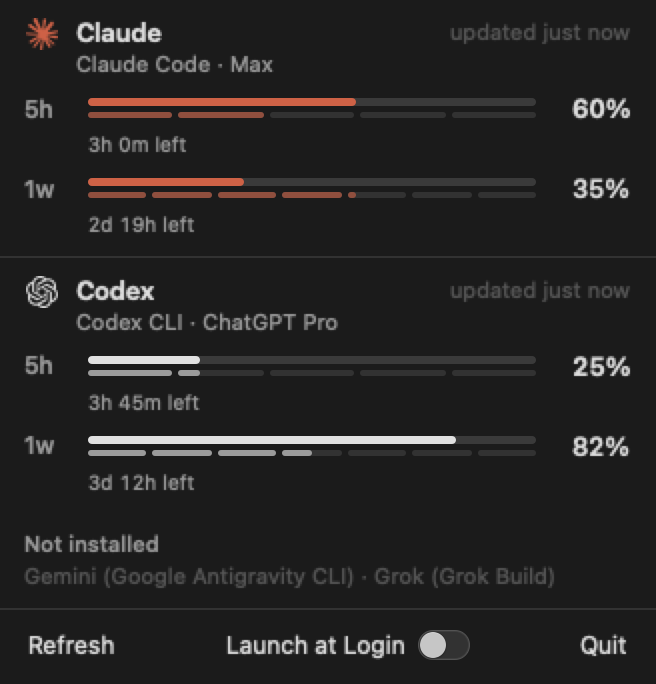
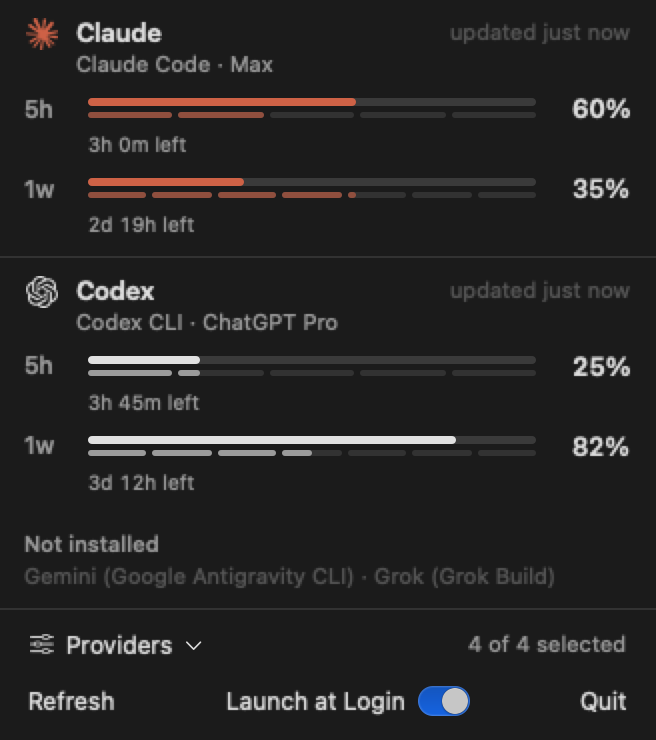
Add persistent provider visibility controls

diff --git a/Sources/LimitBar/Views.swift b/Sources/LimitBar/Views.swift
@@ -39,6 +39,10 @@ struct TrayView: View {
 
     var body: some View {
         HStack(spacing: 8) {
+            if store.installed.isEmpty {
+                Image(systemName: "gauge").font(.system(size: 13))
+                Text("LimitBar").font(.system(size: 12))
+            }
             ForEach(store.installed, id: \.self) { v in
                 let s = store.snaps[v]
                 HStack(spacing: 3) {
@@ -77,7 +81,9 @@ struct TrayView: View {
 struct PanelView: View {
     @ObservedObject var store: Store
     var onQuit: () -> Void
+    var onResize: () -> Void = {}
     @State private var login = SMAppService.mainApp.status == .enabled
+    @State private var showProviders = false
 
     var body: some View {
         TimelineView(.periodic(from: .now, by: 30)) { context in
@@ -86,7 +92,15 @@ struct PanelView: View {
                     if i > 0 { Hairline() }
                     VendorSection(vendor: v, snap: store.snaps[v], busy: store.busy.contains(v), now: context.date)
                 }
-                let missing = Vendor.allCases.filter { !store.installed.contains($0) }
+                if store.enabled.isEmpty {
+                    VStack(alignment: .leading, spacing: 3) {
+                        Text("No providers selected").font(.system(size: 12, weight: .medium))
+                        Text("Choose providers below to show limits.").font(.system(size: 11)).foregroundStyle(.secondary)
+                    }
+                    .frame(maxWidth: .infinity, alignment: .leading)
+                    .padding(12)
+                }
+                let missing = store.enabled.filter { !store.installed.contains($0) }
                 if !missing.isEmpty {
                     if !store.installed.isEmpty { Hairline() }
                     MissingRow(vendors: missing)
@@ -96,24 +110,59 @@ struct PanelView: View {
             }
             .frame(width: 328)
         }
+        .onChange(of: showProviders) { _, _ in onResize() }
     }
 
     private var footer: some View {
-        HStack(spacing: 6) {
-            FooterButton(title: store.busy.isEmpty ? "Refresh" : "Refreshing…") { store.refresh(force: true) }
-                .disabled(!store.busy.isEmpty)
-            Spacer()
-            HStack(spacing: 6) {
-                Text("Launch at Login").font(.system(size: 12))
-                Toggle("", isOn: Binding(get: { login }, set: { on in
-                    do {
-                        if on { try SMAppService.mainApp.register() } else { try SMAppService.mainApp.unregister() }
-                    } catch {}
-                    login = SMAppService.mainApp.status == .enabled
-                })).toggleStyle(.switch).controlSize(.mini).labelsHidden()
+        VStack(spacing: 5) {
+            HStack {
+                Button { showProviders.toggle() } label: {
+                    HStack(spacing: 5) {
+                        Image(systemName: "slider.horizontal.3")
+                        Text("Providers")
+                        Image(systemName: showProviders ? "chevron.up" : "chevron.down").font(.system(size: 9))
+                    }
+                    .font(.system(size: 12))
+                    .padding(.vertical, 4)
+                }
+                .buttonStyle(.plain)
+                .accessibilityLabel("Choose providers")
+                .accessibilityValue(showProviders ? "Expanded" : "Collapsed")
+                Spacer()
+                Text("\(store.enabled.count) of \(Vendor.allCases.count) selected")
+                    .font(.system(size: 11)).foregroundStyle(.secondary)
             }
-            Spacer()
-            FooterButton(title: "Quit", action: onQuit)
+            .padding(.horizontal, 6)
+            if showProviders {
+                LazyVGrid(columns: [GridItem(.flexible(), alignment: .leading), GridItem(.flexible(), alignment: .leading)], alignment: .leading, spacing: 8) {
+                    ForEach(Vendor.allCases, id: \.self) { vendor in
+                        Toggle(vendor.name, isOn: Binding(
+                            get: { !store.hiddenVendors.contains(vendor) },
+                            set: { store.setEnabled(vendor, $0) }
+                        ))
+                        .toggleStyle(.checkbox)
+                        .font(.system(size: 12))
+                    }
+                }
+                .padding(.horizontal, 6)
+                .padding(.bottom, 7)
+            }
+            HStack(spacing: 6) {
+                FooterButton(title: store.visibleBusy ? "Refreshing…" : "Refresh") { store.refresh(force: true) }
+                    .disabled(store.visibleBusy || store.enabled.isEmpty)
+                Spacer()
+                HStack(spacing: 6) {
+                    Text("Launch at Login").font(.system(size: 12))
+                    Toggle("", isOn: Binding(get: { login }, set: { on in
+                        do {
+                            if on { try SMAppService.mainApp.register() } else { try SMAppService.mainApp.unregister() }
+                        } catch {}
+                        login = SMAppService.mainApp.status == .enabled
+                    })).toggleStyle(.switch).controlSize(.mini).labelsHidden()
+                }
+                Spacer()
+                FooterButton(title: "Quit", action: onQuit)
+            }
         }
         .padding(EdgeInsets(top: 6, leading: 8, bottom: 8, trailing: 8))
     }

diff --git a/tests/LimitBarTests/ProviderSettingsTests.swift b/tests/LimitBarTests/ProviderSettingsTests.swift
@@ -1,0 +1,81 @@
+import XCTest
+@testable import LimitBar
+
+final class ProviderSettingsTests: XCTestCase {
+    private var suite: String!
+    private var preferences: UserDefaults!
+
+    override func setUp() {
+        super.setUp()
+        suite = "LimitBarTests.\(UUID().uuidString)"
+        preferences = UserDefaults(suiteName: suite)!
+    }
+
+    override func tearDown() {
+        preferences.removePersistentDomain(forName: suite)
+        preferences = nil
+        super.tearDown()
+    }
+
+    private func store() -> Store {
+        Store(previewSnapshots: [
+            .claude: Snapshot(vendor: .claude), .codex: Snapshot(vendor: .codex),
+            .grok: .status(.grok, .signedOut), .gemini: .status(.gemini, .missing)
+        ], preferences: preferences)
+    }
+
+    func testAllProvidersEnabledByDefault() {
+        let store = store()
+        XCTAssertEqual(store.enabled, Vendor.allCases)
+        XCTAssertEqual(store.installed, [.claude, .codex, .grok])
+    }
+
+    func testHiddenProvidersDisappearAndStayHiddenAfterRestart() {
+        let original = store()
+        original.setEnabled(.grok, false)
+        original.setEnabled(.gemini, false)
+        XCTAssertEqual(original.enabled, [.claude, .codex])
+        XCTAssertEqual(original.installed, [.claude, .codex])
+        let restored = store()
+        XCTAssertEqual(restored.enabled, [.claude, .codex])
+        XCTAssertEqual(restored.hiddenVendors, [.gemini, .grok])
+    }
+
+    func testHiddenProvidersCannotBePolledEvenOnForcedRefresh() {
+        let store = store()
+        store.setEnabled(.grok, false)
+        XCTAssertFalse(store.shouldPoll(.grok, force: true, olderThan: nil))
+        XCTAssertFalse(store.shouldPoll(.grok, force: false, olderThan: 0))
+        store.setEnabled(.grok, true)
+        XCTAssertTrue(store.shouldPoll(.grok, force: true, olderThan: nil))
+        XCTAssertEqual(store.installed, [.claude, .codex, .grok])
+    }
+
+    func testAllProvidersCanBeHiddenAndOneRestored() {
+        let store = store()
+        for vendor in Vendor.allCases { store.setEnabled(vendor, false) }
+        XCTAssertTrue(store.enabled.isEmpty)
+        XCTAssertTrue(store.installed.isEmpty)
+        XCTAssertFalse(store.visibleBusy)
+        let restored = self.store()
+        XCTAssertTrue(restored.enabled.isEmpty)
+        restored.setEnabled(.codex, true)
+        XCTAssertEqual(restored.enabled, [.codex])
+        XCTAssertEqual(restored.installed, [.codex])
+    }
+
+    func testUnknownStoredProvidersAreIgnored() {
+        preferences.set(["grok", "future-provider"], forKey: "hiddenProviders")
+        let store = store()
+        XCTAssertEqual(store.hiddenVendors, [.grok])
+        XCTAssertEqual(store.enabled, [.claude, .gemini, .codex])
+    }
+
+    func testRepeatedSelectionDoesNotToggleOtherProviders() {
+        let store = store()
+        store.setEnabled(.grok, false)
+        store.setEnabled(.grok, false)
+        store.setEnabled(.claude, true)
+        XCTAssertEqual(self.store().hiddenVendors, [.grok])
+    }
+}

diff --git a/Sources/LimitBar/Store.swift b/Sources/LimitBar/Store.swift
@@ -12,6 +12,24 @@ import Foundation
 final class Store: ObservableObject {
     @Published private(set) var snaps: [Vendor: Snapshot] = [:]
     @Published private(set) var busy: Set<Vendor> = []
+    @Published private(set) var hiddenVendors: Set<Vendor> = []
+
+    private let preferences: UserDefaults?
+    private let isPreview: Bool
+    private static let hiddenKey = "hiddenProviders"
+
+    var enabled: [Vendor] { Vendor.allCases.filter { !hiddenVendors.contains($0) } }
+    var visibleBusy: Bool { busy.contains { !hiddenVendors.contains($0) } }
+
+    func setEnabled(_ vendor: Vendor, _ enabled: Bool) {
+        let currentlyEnabled = !hiddenVendors.contains(vendor)
+        guard currentlyEnabled != enabled else { return }
+        if enabled { hiddenVendors.remove(vendor) } else { hiddenVendors.insert(vendor) }
+        preferences?.set(hiddenVendors.map(\.rawValue).sorted(), forKey: Self.hiddenKey)
+        if enabled, !isPreview, !asleep, shouldPoll(vendor, force: true, olderThan: nil) {
+            schedule(vendor, force: true)
+        }
+    }
 
     private let queue = DispatchQueue(label: "limitbar.fetch", qos: .utility)
     private var timer: Timer?
@@ -35,13 +53,16 @@ final class Store: ObservableObject {
 
     /// Vendors the menu bar shows: everything whose CLI exists. Missing ones are listed in the panel only.
     var installed: [Vendor] {
-        Vendor.allCases.filter { v in
+        enabled.filter { v in
             guard let s = snaps[v] else { return true }
             return s.state != .missing
         }
     }
 
-    init(previewSnapshots: [Vendor: Snapshot]? = nil) {
+    init(previewSnapshots: [Vendor: Snapshot]? = nil, preferences: UserDefaults? = .standard) {
+        self.preferences = preferences
+        self.isPreview = previewSnapshots != nil
+        hiddenVendors = Set((preferences?.stringArray(forKey: Self.hiddenKey) ?? []).compactMap(Vendor.init(rawValue:)))
         // A preview must never poll CLIs, read accounts, or change the user's cache.
         if let snapshots = previewSnapshots {
             snaps = snapshots
@@ -60,13 +81,14 @@ final class Store: ObservableObject {
 
     /// Called by the timer (every 30 s, cheap checks only), on wake, on hover and from the panel.
     func refresh(force: Bool = false, olderThan: TimeInterval? = nil) {
-        guard !asleep else { return }
-        for v in Vendor.allCases where shouldPoll(v, force: force, olderThan: olderThan) {
+        guard !asleep, !isPreview else { return }
+        for v in enabled where shouldPoll(v, force: force, olderThan: olderThan) {
             schedule(v, force: force)
         }
     }
 
-    private func shouldPoll(_ v: Vendor, force: Bool, olderThan: TimeInterval?) -> Bool {
+    func shouldPoll(_ v: Vendor, force: Bool, olderThan: TimeInterval?) -> Bool {
+        guard !hiddenVendors.contains(v) else { return false }
         if busy.contains(v) { return false }
         let last = lastPoll[v] ?? .distantPast
         let age = Date().timeIntervalSince(last)

diff --git a/Sources/LimitBar/AppDelegate.swift b/Sources/LimitBar/AppDelegate.swift
@@ -42,6 +42,9 @@ final class AppDelegate: NSResponder, NSApplicationDelegate {   // NSResponder: 
         store.$busy.receive(on: RunLoop.main).sink { [weak self] _ in
             DispatchQueue.main.async { self?.resizePanel() }
         }.store(in: &subs)
+        store.$hiddenVendors.receive(on: RunLoop.main).sink { [weak self] _ in
+            DispatchQueue.main.async { self?.resizeItem(); self?.resizePanel() }
+        }.store(in: &subs)
         buildPanel()
     }
 
@@ -75,7 +78,9 @@ final class AppDelegate: NSResponder, NSApplicationDelegate {   // NSResponder: 
         fx.layer?.borderWidth = 0.5
         fx.layer?.borderColor = NSColor.white.withAlphaComponent(0.22).cgColor
 
-        panelHost = NSHostingView(rootView: AnyView(PanelView(store: store, onQuit: { NSApp.terminate(nil) })))
+        panelHost = NSHostingView(rootView: AnyView(PanelView(store: store, onQuit: { NSApp.terminate(nil) }, onResize: { [weak self] in
+            DispatchQueue.main.async { self?.resizePanel() }
+        })))
         panelHost.translatesAutoresizingMaskIntoConstraints = false
         fx.addSubview(panelHost)
         NSLayoutConstraint.activate([panelHost.leadingAnchor.constraint(equalTo: fx.leadingAnchor),

diff --git a/Sources/LimitBar/PanelPreview.swift b/Sources/LimitBar/PanelPreview.swift
@@ -17,7 +17,7 @@ enum PanelPreview {
             .claude: Snapshot(vendor: .claude, plan: "Max", bar: claude[0], windows: claude, measuredAt: now),
             .codex: Snapshot(vendor: .codex, plan: "ChatGPT Pro", bar: codex[0], windows: codex, measuredAt: now),
             .gemini: .status(.gemini, .missing), .grok: .status(.grok, .missing)
-        ])
+        ], preferences: nil)
         for (name, appearance) in [("light", NSAppearance.Name.aqua), ("dark", .darkAqua)] {
             let host = NSHostingView(rootView: PanelView(store: store, onQuit: {}))
             host.appearance = NSAppearance(named: appearance)

diff --git a/README.md b/README.md
@@ -73,6 +73,12 @@ Installed somewhere else? Point LimitBar at it:
 Hover (or click to pin) for every window, reset times, plan, and anything that needs attention —
 "Signed out — run `codex login`", for example.
 
+Click **Providers** at the bottom of the panel to choose which services appear. Choices are saved
+between launches and apply to the menu bar, panel and missing-CLI list. Hidden providers are excluded
+from future refreshes; a reading already queued or running may finish. Turning a provider back on
+requests a fresh reading. If all providers are off, the LimitBar menu item stays available so you can
+turn them back on. All providers are enabled by default.
+
 For confirmed 5-hour and 7-day windows, the panel also shows pacing. A solid usage bar sits above a
 segmented time bar: five hourly segments for 5-hour limits, seven daily segments for weekly limits.
 The lower bar fills as time passes, including a partial segment for the current hour or day. Both bars

diff --git a/CHANGELOG.md b/CHANGELOG.md
@@ -2,6 +2,8 @@
 
 ## Unreleased
 
+- Choose visible services in the panel's Providers section. Save selections between launches,
+  skip future polls for hidden providers and keep the menu item accessible when all are off.
 - Show pacing for confirmed 5-hour and 7-day limits: a segmented time bar under each usage bar,
   time until reset, and hover details comparing usage with an even allowance across the window.
 - Add pacing tests and a `--preview-panel <directory>` command that renders the native panel
